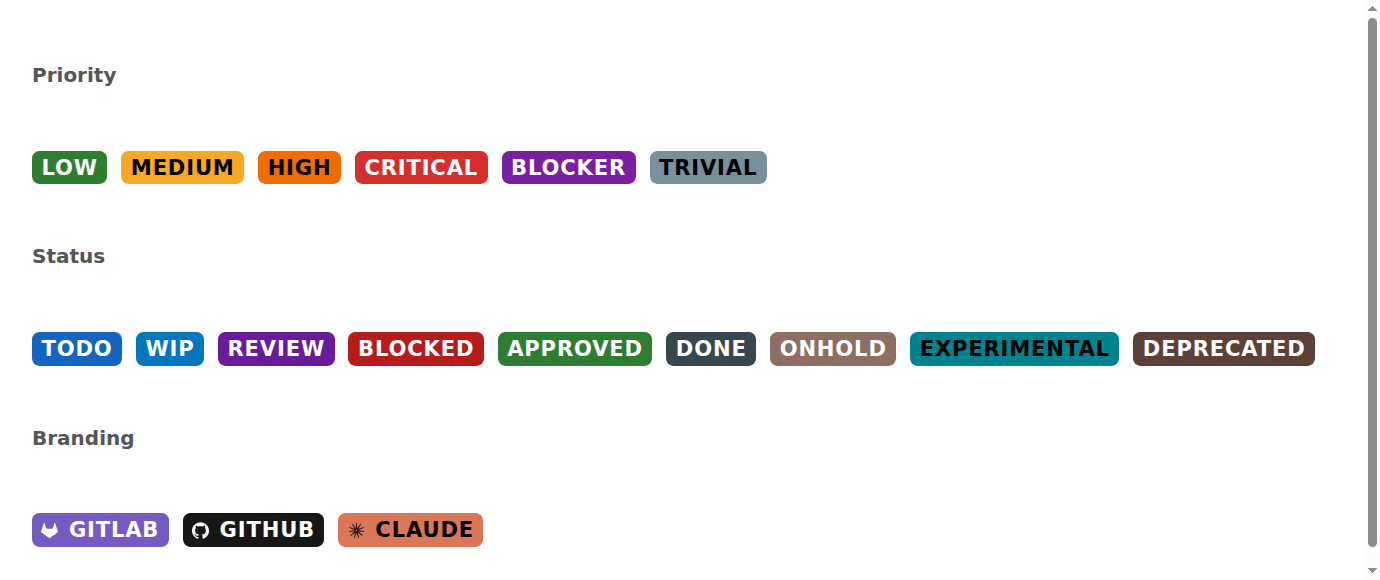
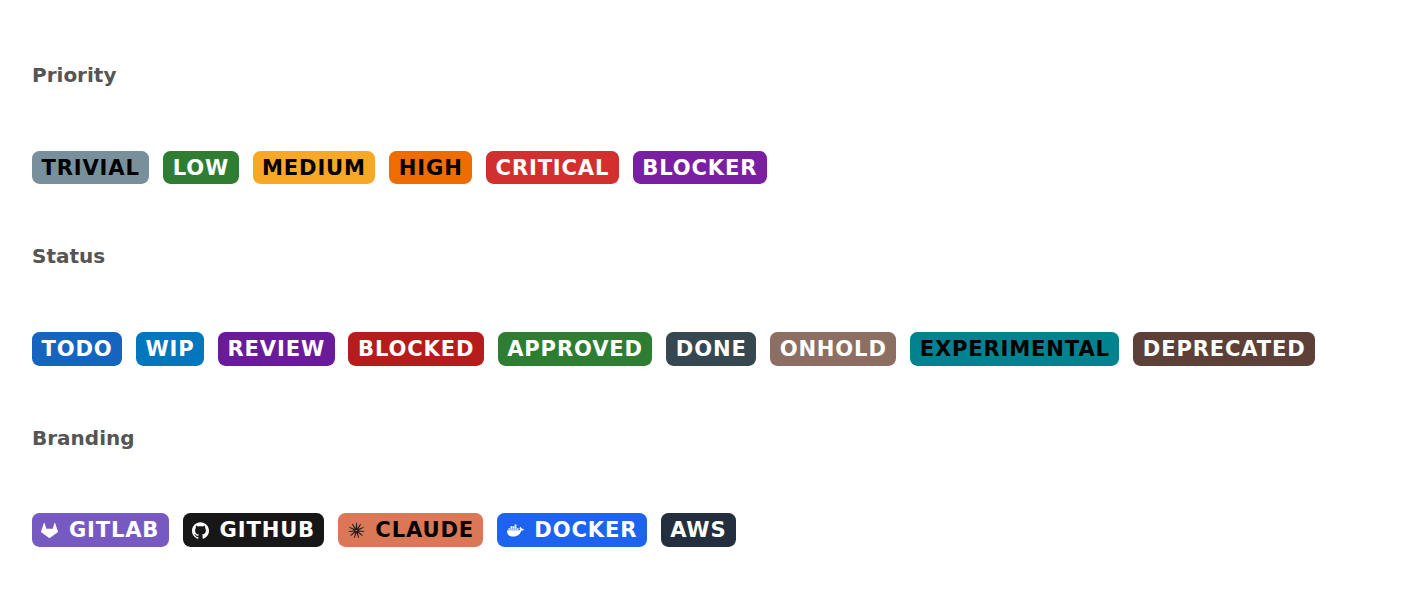
apply the final 1.0 review fix wave

diff --git a/src/markdown_badges/__init__.py b/src/markdown_badges/__init__.py
@@ -33,24 +33,18 @@ from markdown_badges.parsing import (
     priority_of,
     rank_of,
 )
-from markdown_badges.styling import BADGE_STYLE, badge_element, badge_html, text_color, to_hex6
 
 __all__ = [
-    "BADGE_STYLE",
     "CATALOGUE",
     "Badge",
     "BadgeType",
     "MarkdownBadgesExtension",
-    "badge_element",
-    "badge_html",
     "badges_in",
     "catalogue_for",
     "makeExtension",
     "priority_of",
     "rank_of",
     "resolve_badges",
-    "text_color",
-    "to_hex6",
 ]
 
 _TYPE_NAMES = ", ".join(t.value for t in BadgeType)

diff --git a/tests/test_styling.py b/tests/test_styling.py
@@ -52,5 +52,5 @@ def test_badge_element_passes_extended_css_through():
 
 def test_badge_html_ends_with_a_space():
     html = badge_html(Badge("done", "#37474f", BadgeType.STATUS))
-    assert html.endswith("> ") or html.endswith("</span> ")
+    assert html.endswith("</span> ")
     assert etree.fromstring(html.strip()).tag == "span"

diff --git a/CHANGELOG.md b/CHANGELOG.md
@@ -7,7 +7,7 @@
 - The badge catalogue ships in the package and is active with no config. `catalogue` narrows it; `[]` disables it.
 - `badges_in(text)` returns every badge on a line, of any type, in document order.
 - `shorthand` maps any task-list marker to any badge, so `!` / `!!` is config a user opts into and anyone can invent their own markers.
-- `BadgeType`, `Badge`, `CATALOGUE`, and `catalogue_for` are public.
+- `BadgeType`, `Badge`, `CATALOGUE`, `catalogue_for`, and `resolve_badges` are public. The styling helpers (`BADGE_STYLE`, `badge_element`, `badge_html`, `text_color`, `to_hex6`) stay private to `markdown_badges.styling`; they are not part of the 1.0 API.
 - **Extended badge values.** A badge value under `badges` becomes the badge's `background-color`, and anything after a `;` becomes a further declaration on that badge. A badge can carry a background image, a gradient, or a shadow straight from config, with no site CSS. The value is not parsed or filtered, exactly like an `extra_css` rule.
 - Badge catalogue at `docs/badges.md`: every catalogue badge listed with its keyword, value, and resolved text colour, grouped into priority, status, and branding. Generated from `CATALOGUE` in `src/markdown_badges/catalogue.py` by `scripts/gen_badges.py`, so adding a badge is one entry plus a re-run.
 - Logo badges for GitLab, GitHub, Claude, and Docker, each with its mark inlined as a `data:` URI so a page makes no network request for it.
@@ -16,6 +16,7 @@
 - A badge value is rejected with a `ValueError` when the extension loads if it is not a string, or is empty. Those cannot produce CSS at all, so they are config mistakes rather than intent.
 - `mypy --strict` over `src`, and `ruff format --check`, both run in CI.
 - Tests for the escape hatch, nested task lists, `*` / `+` bullets, an uppercase `[X]` checkbox, an inline keyword inside a task item, alpha hex colors, extended badge values, and value validation.
+- A `docs/img/showcase.png` screenshot in the README Catalogue section, showing every badge type, the task-list shorthand, and badges in a table and a heading, captured from a real site build.
 
 ### Changed
 
@@ -27,12 +28,15 @@
 - The ruff lint rule set now selects `E`, `F`, `I`, `UP`, and `B`.
 - Both workflows use the same action versions (`actions/checkout@v6`, `astral-sh/setup-uv@v8.2.0`).
 - Added the per-version Python, Markdown topic, and `Typing :: Typed` classifiers, plus the `Repository` and `Issues` project URLs.
+- Classifier bumped to `Development Status :: 5 - Production/Stable` for the 1.0 release.
+- The sdist excludes `docs/superpowers`, the internal planning docs, so they no longer ship inside the published source tarball.
 
 ### Removed
 
 - The `levels` option. A leftover `levels` key raises a `ValueError` pointing at `MIGRATING.md`.
 - The built-in `!` / `!!` task-list shorthand. Restore it with three lines of `shorthand` config.
 - `LEVELS`, `DEFAULT_LEVELS`, `level_rank`, `MARKER_RE`, `PriorityBadgesExtension`, `PriorityInlineProcessor`, `TasklistShorthandTreeprocessor`.
+- The orphaned 0.2.0 `docs/img/{blocker,critical,high,low,medium,todo}.png` images; nothing referenced them.
 
 ### Fixed
 
@@ -40,6 +44,7 @@
 - README image and `LICENSE` links are absolute, so they render on the PyPI project page instead of breaking.
 - A `badges` entry whose type value is not a mapping (for example a list) now raises a `ValueError` naming the offending type key, instead of an `AttributeError` from calling `.items()` on it.
 - The two badge-value validation errors now say what a valid value looks like, matching the `levels` and `shorthand` error messages.
+- The PyPI `description` described the removed priority-only `!level` keywords and built-in `! / !!` shorthand; it now describes the 1.0 `!name` badge model and catalogue.
 
 ## 0.2.0 - 2026-07-01
 

diff --git a/README.md b/README.md
@@ -39,7 +39,7 @@ Every badge belongs to one of three types.
 
 Every badge above ships with the package and is active out of the box, no config required.
 
-![Every badge in the catalogue, rendered](https://raw.githubusercontent.com/antoinekh/markdown-priority-badges/master/docs/img/catalogue.png)
+![Every badge in the catalogue, the task-list shorthand, and badges in a table and a heading](https://raw.githubusercontent.com/antoinekh/markdown-priority-badges/master/docs/img/showcase.png)
 
 Full list with keyword, value, and resolved text colour: **[docs/badges.md](docs/badges.md)**.
 
